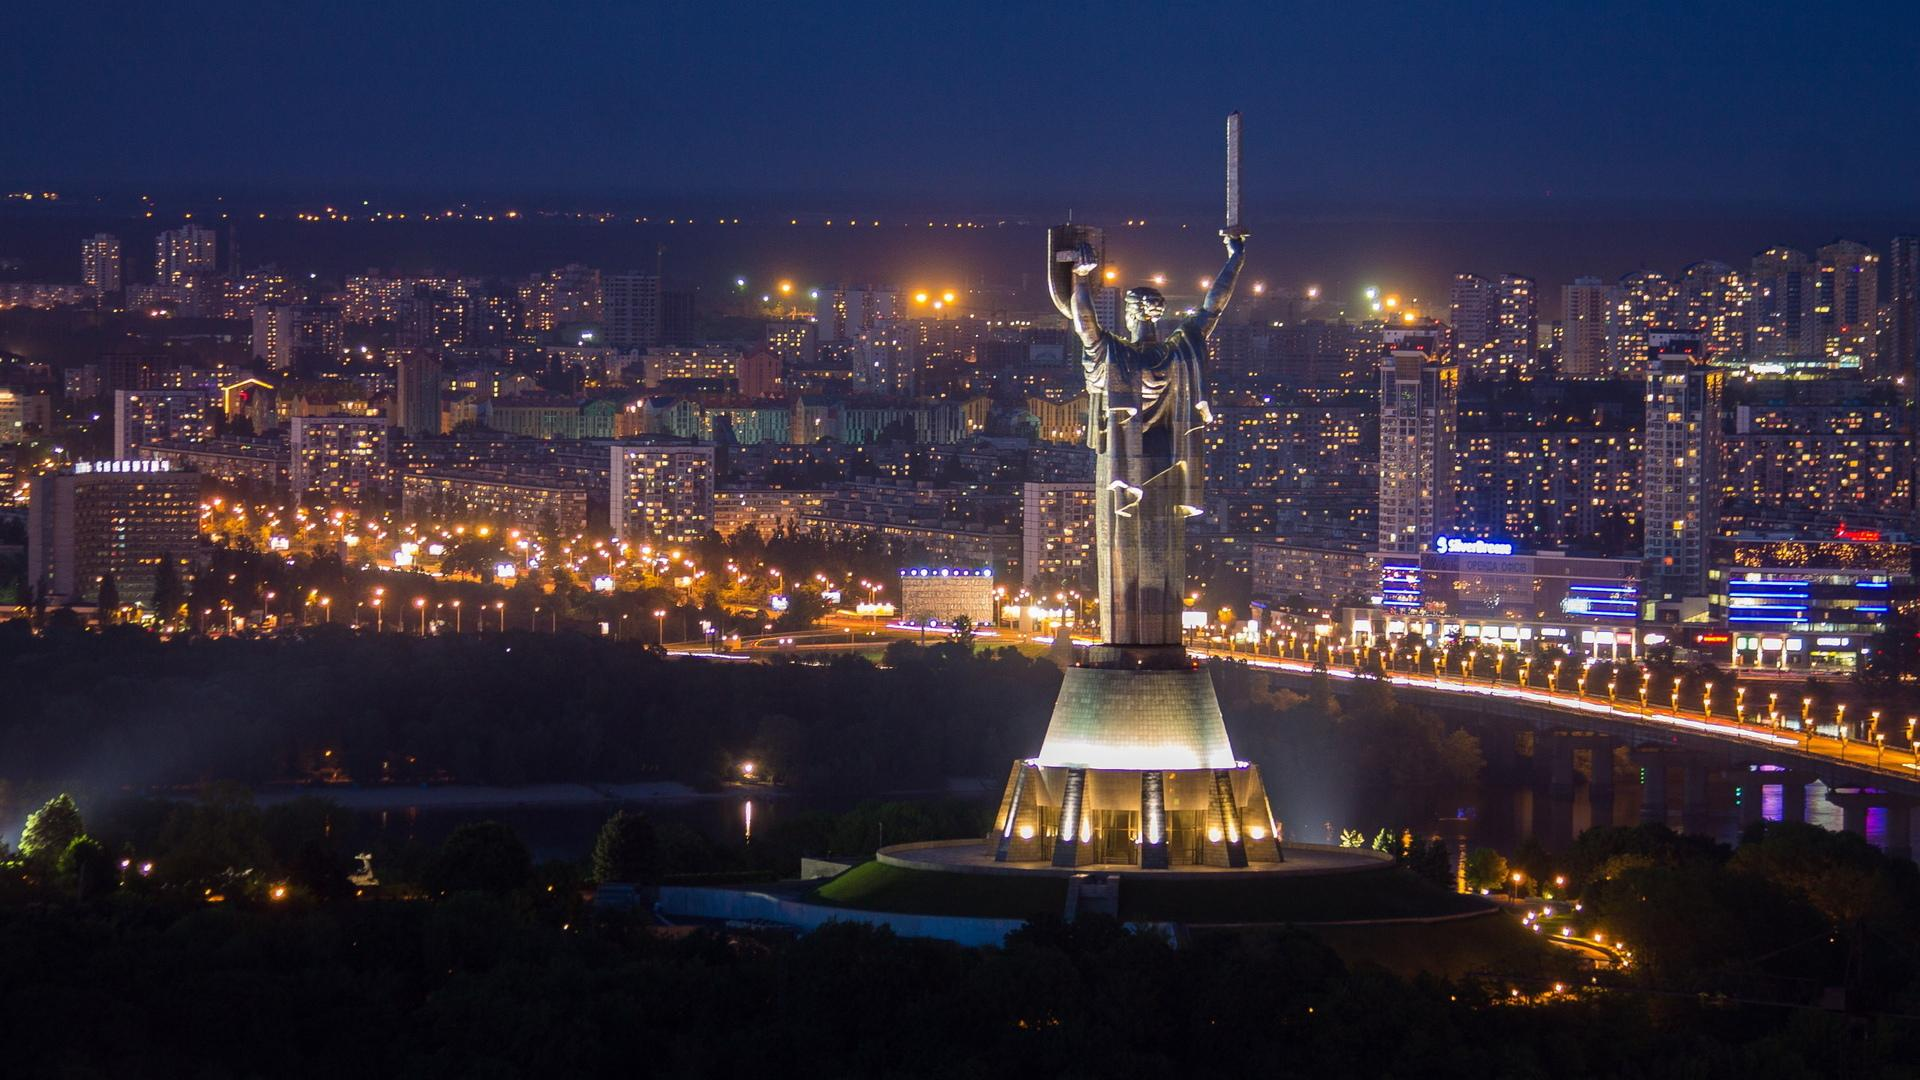
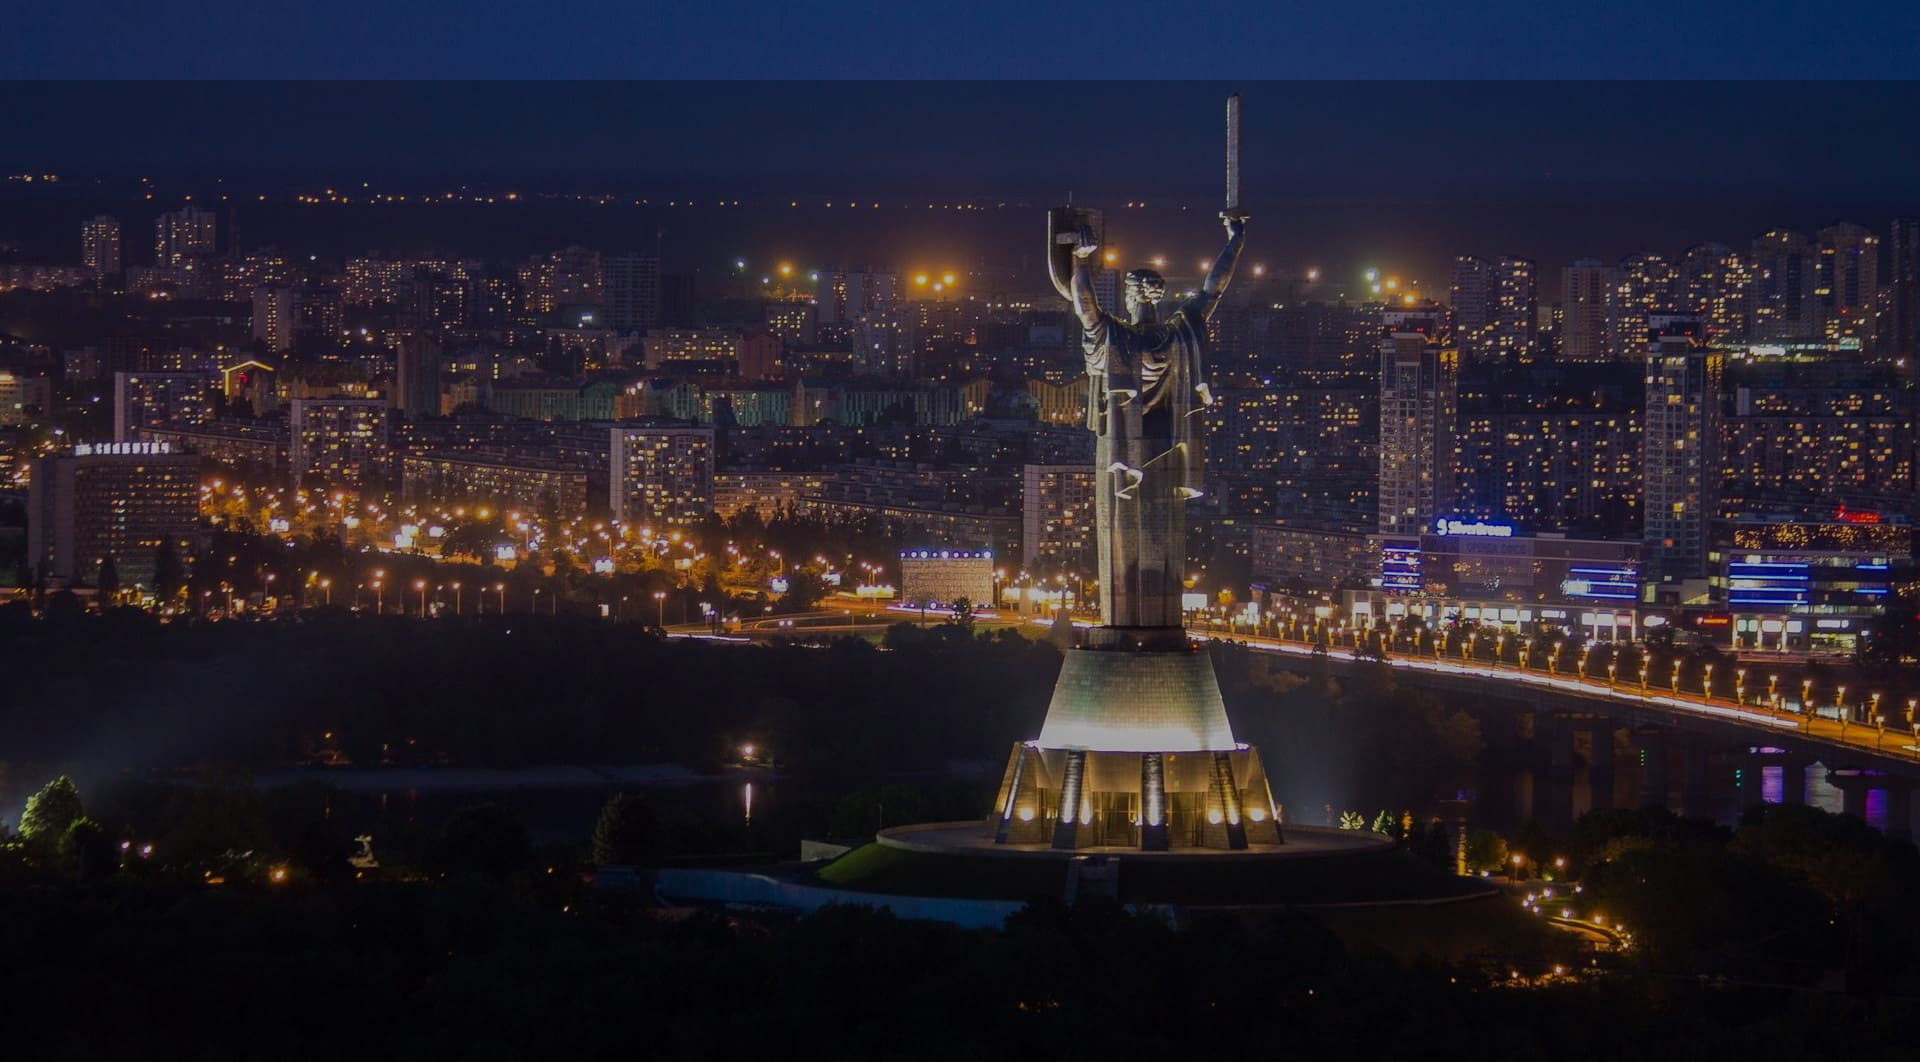
Index page styles done

diff --git a/index.html b/index.html
@@ -5,6 +5,7 @@
   <meta name="viewport" content="width=device-width, initial-scale=1.0">
   <meta http-equiv="X-UA-Compatible" content="ie=edge">
   <title>Головна</title>
+  <link href="https://fonts.googleapis.com/css?family=Roboto:400,700&display=swap&subset=cyrillic,cyrillic-ext" rel="stylesheet">
   <link rel="stylesheet" href="./css/style.css">
 </head>
 <body>
@@ -29,11 +30,11 @@
       <h2 class="summary__title">Що це за місто таке?</h2>
       <div class="row">
         <p class="summary__content">Київ - столиця України, одне з найбільших і найстаріших міст Європи. Розташований у течії Дніпра, у північній Наддніпрянщині. Політичний, соціально-економічний, транспортний та освітньо-науковий центр країни</p>
-        <div class="summary__image"><img src="./img/index/summary-image1.jpg" alt="Батьківщина-Мати"></div>
+        <img src="./img/index/summary-image1.jpg" width="400" height="400" alt="Батьківщина-Мати">
       </div>
       <div class="row">
         <p class="summary__content">Один із найстаріших історичних центрів Східної Європи та християнства — Софійський собор — та Києво-Печерська лавра внесено до списку Світової спадщини ЮНЕСКО.</p>
-        <div class="summary__image"><img src="./img/index/summary-image2.jpg" alt="Софіївський собор"></div>
+        <img src="./img/index/summary-image2.jpg" width="295" height="369" alt="Софіївський собор">
       </div>
     </section>
 
@@ -44,7 +45,7 @@
       <p class="short-history__content">За легендою «Повісті врем'янних літ» Київ було засновано легендарним полянським князем Києм разом із братами Щеком і Хоривом і сестрою Либідь. Літопис не має дати заснування міста. Археологічні та писемні джерела свідчать, що Київ розвинувся на основі язичницького поселення кінця 5—початку 6 століття.</p>
       <span class="short-history__more">
         Детальніше про історію міста можна дізнатися
-        <a href="./history.html" class="short-history__more__link">тут</a>
+        <a href="./history.html" class="short-history__link">тут</a>
       </span>
     </section>
 
@@ -54,15 +55,15 @@
       <ul class="showplaces__list">
         <li class="showplaces__item">
           <h3 class="showplaces__item-title">Хрещатик - головна вулиця міста</h3>
-          <div class="showplaces__image"><img src="./img/index/hreschatyk.jpg" alt="Хрещатик"></div>
+          <img src="./img/index/hreschatyk.jpg" width="1030" height="679" alt="Хрещатик">
         </li>
         <li class="showplaces__item">
           <h3 class="showplaces__item-title">Андріївський узвіз - найкрасивіше місце Києва</h3>
-          <div class="showplaces__image"><img src="./img/index/uzviz.jpg" alt="Андріївський узвіз"></div>
+          <img src="./img/index/uzviz.jpg" width="1030" height="555" alt="Андріївський узвіз">
         </li>
         <li class="showplaces__item">
           <h3 class="showplaces__item-title">Києво-печерська Лавра - один із найстаріших монастирів міста</h3>
-          <div class="showplaces__image"><img src="./img/index/lavra.jpg" alt="Києво-печерська Лавра"></div>
+          <img src="./img/index/lavra.jpg" width="1030" height="647" alt="Києво-печерська Лавра">
         </li>
       </ul>
       <span class="short-showplaces__more">

diff --git a/css/style.css b/css/style.css
@@ -1,0 +1,191 @@
+html {
+  box-sizing: border-box;
+}
+
+*, *::before, *::after {
+  box-sizing: inherit;
+}
+
+body {
+  margin: 0;
+  padding: 0;
+  font-family: 'Roboto', 'Arial', sans-serif;
+  color: #fff;
+  background-color: #000;
+}
+
+.page-header {
+  background-color: rgba(0, 0, 0, 0.5);
+}
+
+.main-nav {
+  max-width: 1030px;
+  margin: 0 auto;
+}
+
+.main-nav__list {
+  margin: 0;
+  padding: 0;
+  list-style: none;
+
+  display: flex;
+  justify-content: flex-end;
+  align-items: center;
+  min-height: 80px;
+}
+
+.main-nav__item {
+  margin-left: 10px;
+}
+
+.main-nav__link {
+  display: block;
+  color: inherit;
+  text-decoration: none;
+  transition: all 0.3s;
+}
+
+.main-nav__link--active {
+  border-bottom: 1px solid #fff;
+}
+
+.main-nav__link[href]:hover {
+  opacity: 0.7;
+}
+
+.main-nav__link[href]:active {
+  opacity: 0.5;
+}
+
+.first-screen {
+  min-height: 100vh;
+  background-image: url('../img/index/first-screen-bg.jpg');
+  background-size: cover;
+}
+
+.first-screen--history {
+  background-image: url('../img/history/first-screen-bg.jpg');
+}
+
+.main {
+  padding-top: 300px;
+}
+
+.main-title {
+  margin: 0;
+  padding: 0;
+
+  max-width: 750px;
+  margin: 0 auto;
+  text-align: center;
+  font-size: 62px;
+}
+
+.page-content {
+  max-width: 1030px;
+  margin: 0 auto;
+  padding-bottom: 100px;
+}
+
+.summary__title {
+  margin-bottom: 80px;
+  font-size: 50px;
+  text-align: center;
+}
+
+.summary__content {
+  padding-right: 250px;
+  font-size: 24px;
+}
+
+.row {
+  display: flex;
+  justify-content: space-between;
+  align-items: center;
+  margin-bottom: 50px;
+}
+
+.row:nth-of-type(even) {
+  flex-direction: row-reverse;
+}
+
+.row:nth-of-type(even) .summary__content {
+  padding-right: 0;
+  padding-left: 250px;
+}
+
+.short-history__title {
+  margin-bottom: 50px;
+  font-size: 50px;
+  text-align: center;
+}
+
+.short-history__content {
+  font-size: 24px;
+  margin-bottom: 50px;
+}
+
+.short-history__more {
+  font-size: 24px;
+}
+
+.short-history__link {
+  color: #F05454;
+  text-decoration: none;
+  transition: all 0.3s;
+}
+
+.short-history__link:hover {
+  opacity: 0.7;
+}
+
+.short-history__link:active {
+  opacity: 0.5;
+}
+
+.showplaces__title {
+  margin-bottom: 30px;
+  font-size: 50px;
+  text-align: center;
+}
+
+.showplaces__item {
+  margin-bottom: 80px;
+}
+
+.showplaces__promo {
+  display: block;
+  margin-bottom: 80px;
+  font-size: 24px;
+}
+
+.showplaces__list {
+  margin: 0;
+  padding: 0;
+  list-style: none;
+}
+
+.showplaces__item-title {
+  font-size: 32px;
+  text-align: center;
+  font-weight: normal;
+}
+
+.short-showplaces__more {
+  font-size: 24px;
+}
+
+.short-showplaces__link {
+  color: #F05454;
+  text-decoration: none;
+  transition: all 0.3s;
+}
+
+.short-showplaces__link:hover {
+  opacity: 0.7;
+}
+
+.short-showplaces__link:active {
+  opacity: 0.5;
+}
+

diff --git a/showplaces.html b/showplaces.html
@@ -1,0 +1,26 @@
+<!DOCTYPE html>
+<html lang="en">
+<head>
+  <meta charset="UTF-8">
+  <meta name="viewport" content="width=device-width, initial-scale=1.0">
+  <meta http-equiv="X-UA-Compatible" content="ie=edge">
+  <link href="https://fonts.googleapis.com/css?family=Roboto:400,700&display=swap&subset=cyrillic,cyrillic-ext" rel="stylesheet">
+  <link rel="stylesheet" href="./css/style.css">
+  <title>Визначні місця</title>
+</head>
+<body>
+  <section class="first-screen">
+    <header class="page-header">
+      <nav class="main-nav">
+        <ul class="main-nav__list">
+          <li class="main-nav__item"><a href="/" class="main-nav__link">Головна</a></li>
+          <li class="main-nav__item"><a class="main-nav__link main-nav__link--active">Пам'ятки</a></li>
+          <li class="main-nav__item"><a href="./history.html" class="main-nav__link">Історія</a></li>
+        </ul>
+      </nav>
+    </header>
+    <section class="main">
+      <h1 class="main-title">Цей розділ знаходиться в розробці</h1>
+    </section>
+</body>
+</html>

diff --git a/history.html b/history.html
@@ -5,10 +5,11 @@
   <meta name="viewport" content="width=device-width, initial-scale=1.0">
   <meta http-equiv="X-UA-Compatible" content="ie=edge">
   <title>Історія міста Київ</title>
+  <link href="https://fonts.googleapis.com/css?family=Roboto:400,700&display=swap&subset=cyrillic,cyrillic-ext" rel="stylesheet">
   <link rel="stylesheet" href="./css/style.css">
 </head>
 <body>
-  <section class="first-screen">
+  <section class="first-screen first-screen--history">
     <header class="page-header">
       <nav class="main-nav">
         <ul class="main-nav__list">
@@ -18,8 +19,9 @@
         </ul>
       </nav>
     </header>
-
-      <h1 class="first-screen__title">Історія міста Київ</h1>
+    <section class="main">
+      <h1 class="main-title">Історія міста Київ</h1>
+    </section>
     </section>
 
     <main class="history">
